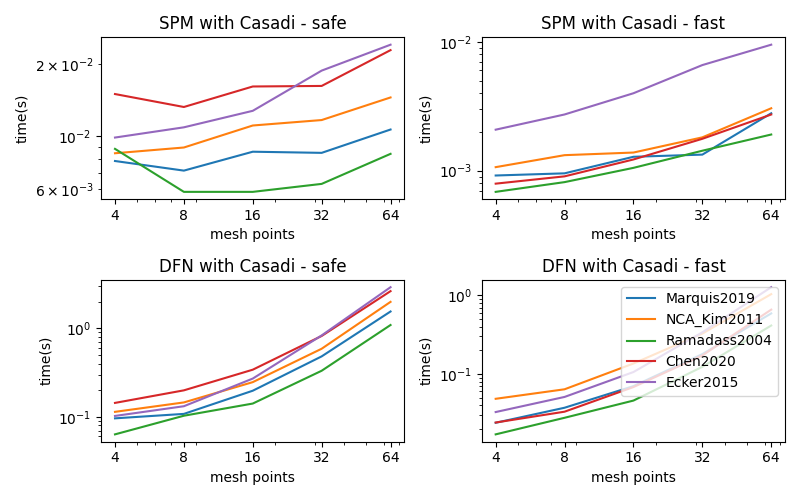
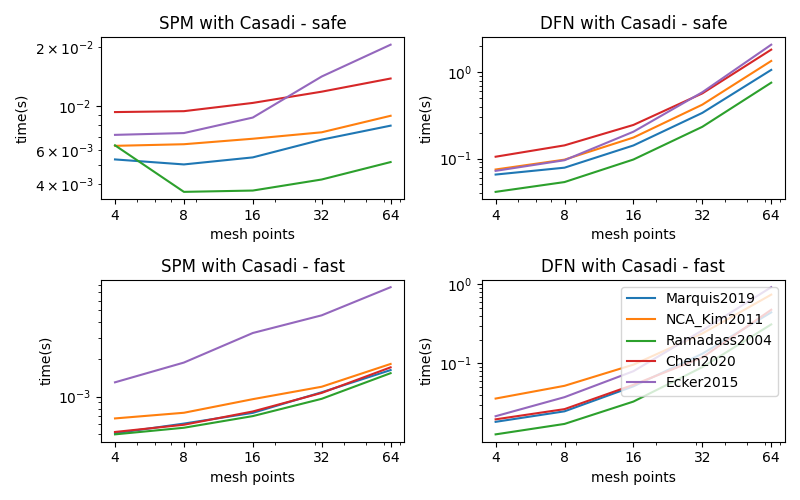
add minor changes

diff --git a/benchmarks/work_precision_sets/time_vs_abstols.py b/benchmarks/work_precision_sets/time_vs_abstols.py
@@ -4,17 +4,11 @@ import matplotlib.pyplot as plt
 import itertools
 
 
-parameters = [
-    "Marquis2019",
-    "Prada2013",
-    "Ramadass2004",
-    "Chen2020",
-]
+parameters = ["Marquis2019", "Ecker2015", "Ramadass2004", "Chen2020"]
 
 models = {"SPM": pybamm.lithium_ion.SPM(), "DFN": pybamm.lithium_ion.DFN()}
 
 abstols = [
-    0.001,
     0.0001,
     1.0e-5,
     1.0e-6,
@@ -34,21 +28,22 @@ solvers = {
 }
 
 
-fig, axs = plt.subplots(len(solvers), len(models), figsize=(8, 5))
+fig, axs = plt.subplots(len(solvers), len(models), figsize=(8, 10))
 
 for ax, i, j in zip(
     axs.ravel(),
-    itertools.product(models.values(), solvers.values()),
-    itertools.product(models, solvers),
+    itertools.product(solvers.values(), models.values()),
+    itertools.product(solvers, models),
 ):
 
     for params in parameters:
-        time_points = []
-        solver = i[1]
 
-        model = i[0].new_copy()
-        c_rate = 10
-        tmax = 3600 / c_rate
+        time_points = []
+        solver = i[0]
+
+        model = i[1].new_copy()
+        c_rate = 1
+        tmax = 3500 / c_rate
         nb_points = 500
         t_eval = np.linspace(0, tmax, nb_points)
         geometry = model.default_geometry
@@ -74,8 +69,6 @@ for ax, i, j in zip(
         disc = pybamm.Discretisation(mesh, model.default_spatial_methods)
         disc.process_model(model)
 
-        i = list(i)
-
         for tol in abstols:
 
             solver.atol = tol
@@ -94,13 +87,13 @@ for ax, i, j in zip(
         ax.set_yscale("log")
         ax.set_xlabel("abstols")
         ax.set_ylabel("time(s)")
-        ax.set_title(f"{j[0]} with {j[1]}")
+        ax.set_title(f"{j[1]} with {j[0]}")
         ax.plot(abstols, time_points)
 
 plt.tight_layout()
 plt.gca().legend(
     parameters,
-    loc="upper right",
+    loc="lower right",
 )
 
 

diff --git a/benchmarks/work_precision_sets/time_vs_reltols.py b/benchmarks/work_precision_sets/time_vs_reltols.py
@@ -6,7 +6,7 @@ import itertools
 
 parameters = [
     "Marquis2019",
-    "Prada2013",
+    "Ecker2015",
     "Ramadass2004",
     "Chen2020",
 ]
@@ -34,21 +34,22 @@ solvers = {
 }
 
 
-fig, axs = plt.subplots(len(solvers), len(models), figsize=(8, 5))
+fig, axs = plt.subplots(len(solvers), len(models), figsize=(8, 10))
 
 for ax, i, j in zip(
     axs.ravel(),
-    itertools.product(models.values(), solvers.values()),
-    itertools.product(models, solvers),
+    itertools.product(solvers.values(), models.values()),
+    itertools.product(solvers, models),
 ):
 
     for params in parameters:
-        time_points = []
-        solver = i[1]
 
-        model = i[0].new_copy()
-        c_rate = 10
-        tmax = 3600 / c_rate
+        time_points = []
+        solver = i[0]
+
+        model = i[1].new_copy()
+        c_rate = 1
+        tmax = 3500 / c_rate
         nb_points = 500
         t_eval = np.linspace(0, tmax, nb_points)
         geometry = model.default_geometry
@@ -74,8 +75,6 @@ for ax, i, j in zip(
         disc = pybamm.Discretisation(mesh, model.default_spatial_methods)
         disc.process_model(model)
 
-        i = list(i)
-
         for tol in reltols:
 
             solver.rtol = tol
@@ -95,13 +94,13 @@ for ax, i, j in zip(
         ax.set_xlabel("reltols")
         ax.set_ylabel("time(s)")
 
-        ax.set_title(f"{j[0]} with {j[1]}")
+        ax.set_title(f"{j[1]} with {j[0]}")
         ax.plot(reltols, time_points)
 
 plt.tight_layout()
 plt.gca().legend(
     parameters,
-    loc="upper right",
+    loc="lower right",
 )
 
 plt.savefig(f"benchmarks/benchmark_images/time_vs_reltols_{pybamm.__version__}.png")

diff --git a/benchmarks/work_precision_sets/time_vs_no_of_states.py b/benchmarks/work_precision_sets/time_vs_no_of_states.py
@@ -16,7 +16,6 @@ models = {"SPM": pybamm.lithium_ion.SPM(), "DFN": pybamm.lithium_ion.DFN()}
 npts = [4, 8, 16, 32, 64]
 
 solvers = {
-    # "IDAKLUSolver": pybamm.IDAKLUSolver(),
     "Casadi - safe": pybamm.CasadiSolver(),
     "Casadi - fast": pybamm.CasadiSolver(mode="fast"),
 }
@@ -26,16 +25,16 @@ fig, axs = plt.subplots(len(solvers), len(models), figsize=(8, 5))
 
 for ax, i, j in zip(
     axs.ravel(),
-    itertools.product(models.values(), solvers.values()),
-    itertools.product(models, solvers),
+    itertools.product(solvers.values(), models.values()),
+    itertools.product(solvers, models),
 ):
 
     for params in parameters:
         time_points = []
         ns = []
-        solver = i[1]
+        solver = i[0]
 
-        model = i[0].new_copy()
+        model = i[1].new_copy()
 
         # load parameter values and process model and geometry
         param = pybamm.ParameterValues(params)
@@ -72,7 +71,7 @@ for ax, i, j in zip(
         ax.set_ylabel("time(s)")
         ax.set_xticks(ns)
         ax.set_xticklabels(ns, fontsize=10)
-        ax.set_title(f"{j[0]} with {j[1]}")
+        ax.set_title(f"{j[1]} with {j[0]}")
         ax.plot(ns, time_points)
 
 plt.tight_layout()

diff --git a/benchmarks/work_precision_sets/time_vs_mesh_size.py b/benchmarks/work_precision_sets/time_vs_mesh_size.py
@@ -26,15 +26,15 @@ fig, axs = plt.subplots(len(solvers), len(models), figsize=(8, 5))
 
 for ax, i, j in zip(
     axs.ravel(),
-    itertools.product(models.values(), solvers.values()),
-    itertools.product(models, solvers),
+    itertools.product(solvers.values(), models.values()),
+    itertools.product(solvers, models),
 ):
 
     for params in parameters:
         time_points = []
-        solver = i[1]
+        solver = i[0]
 
-        model = i[0].new_copy()
+        model = i[1].new_copy()
 
         # load parameter values and process model and geometry
         param = pybamm.ParameterValues(params)
@@ -70,7 +70,7 @@ for ax, i, j in zip(
         ax.set_ylabel("time(s)")
         ax.set_xticks(npts)
         ax.set_xticklabels(npts, fontsize=10)
-        ax.set_title(f"{j[0]} with {j[1]}")
+        ax.set_title(f"{j[1]} with {j[0]}")
         ax.plot(npts, time_points)
 
 plt.tight_layout()
